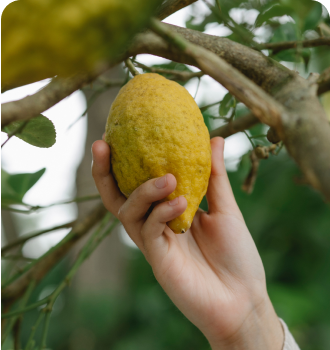
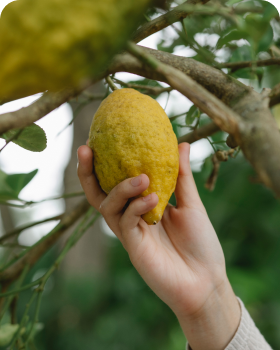
feat: change image in service

diff --git a/plants/css/style.css b/plants/css/style.css
@@ -80,6 +80,9 @@ body {
     list-style: none;
     display: flex;
     gap: 47px;
+    position: relative;
+    top: 1px;
+    right: 2px;
 }
 .nav__item {
     font-family: 'Inika';
@@ -166,7 +169,7 @@ body {
 }
 .service__content {
     display: flex;
-    padding: 40px 0 79px 0;
+    padding: 40px 0 80px 0;
 }
 .service__btns {
     padding: 29px 0 0 142px;
@@ -200,6 +203,10 @@ body {
 }
 .card__image img{
     vertical-align: top;
+    width: 330px;
+    height: 350px;
+    object-fit: cover;
+    border-radius: 20px 20px 0 0;
 }
 .card__title {
     font-weight: 700;
